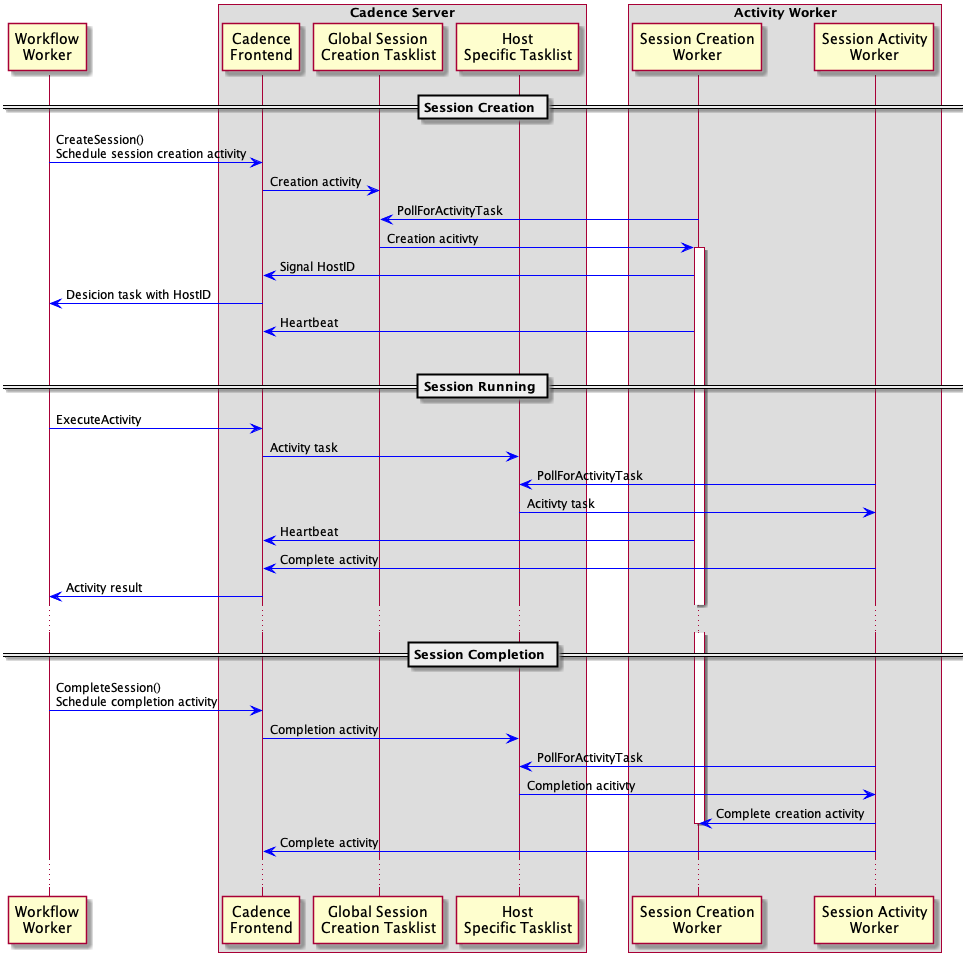
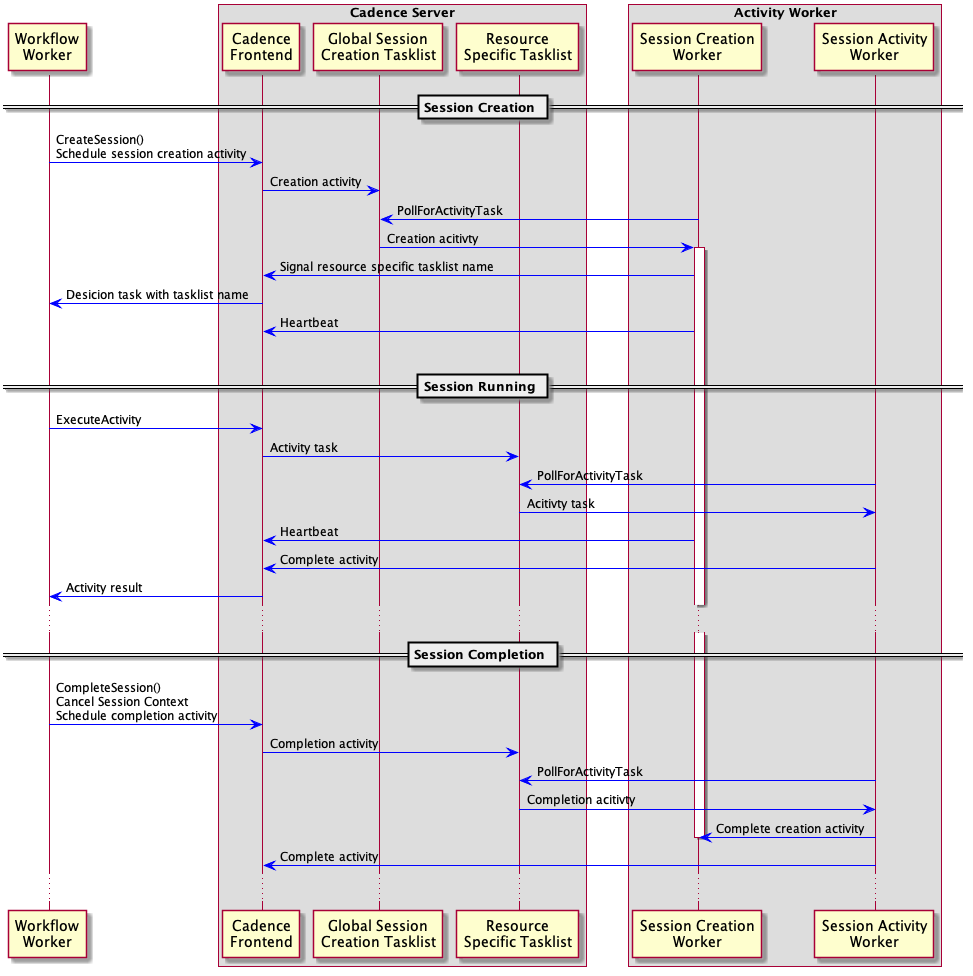
Update Session Proposal (#2173)

diff --git a/docs/design/1533-host-specific-tasklist.md b/docs/design/1533-host-specific-tasklist.md
@@ -2,7 +2,7 @@
 
 Author: Yichao Yang (yycptt)
 
-Last updated: April 2019
+Last updated: July 2019
 
 Discussion at <https://github.com/uber-go/cadence-client/issues/697>
 
@@ -41,32 +41,40 @@ The following sections will first go through the APIs exposed to users, explain 
 There will be four new APIs available when writing a workflow:
 
 ```go
-sessionCtx, err := workflow.**CreateSession**(ctx)
+sessionCtx, err := workflow.**CreateSession**(ctx Context, so *SessionOptions)
 ```
 
-A user calls this API to create a session and use the returned sessionCtx to execute activities. All activities executed within the returned sessionCtx are considered to be part of the session and will be executed on the same worker. It’s possible that this call will fail due to various reasons, for example, no worker is available at this time.
+A user calls this API to create a session on the worker that polls the task list specified in the ActivityOptions (or in the StartWorkflowOptions if the task list name is not specified in the ActivityOptions). All activities executed within the returned sessionCtx (a new context which contains metadata information of the created session) are considered to be part of the session and will be executed on the same worker. The sessionCtx will be cancelled if the worker executing this session dies or CompleteSession() is called.
 
-The session will be created on one of the workers that polls from the tasklist specified in the context passed into the CreateSession API. As a result, users need to make sure they are using the correct task list.
+The SessionOptions struct contains two fields: `ExecutionTimeout`, which specifies the maximum amount of time the session can run and `CreationTimeout`, which specifies how long session creation can take before returning an error.
 
-When executing an activity within a session, a user may get two types of errors. The first one is returned from user activities. The session will not be marked as failed in this case, so the user can return whatever error they want and apply their business logic as necessary. If a user wants to end a session due to the error returned from the activity, use the CompleteSession() API below. The second type of error is a special error which says the session has failed due to worker failure and the session is marked as failed in the background. In this case, no activities can be executed using this context. The user can choose how to handle the failure. They can create a new session to retry or end the workflow with an error.
+CreateSession() will return an error if the context passed in already contains an open session. If all the workers are currently busy and unable to handle new sessions, the framework will keep retrying until the CreationTimeout you specified in the SessionOptions has passed before returning an error.
+
+When executing an activity within a session, a user might get three types of errors:
+1. Those returned from user activities. The session will not be marked as failed in this case, so the user can return whatever error they want and apply their business logic as necessary. If a user wants to end a session due to the error returned from the activity, use the CompleteSession() API below. 
+2. A special `ErrSessionFailed` error: this error means the session has failed due to worker failure and the session is marked as failed in the background. In this case, no activities can be executed using this context. The user can choose how to handle the failure. They can create a new session to retry or end the workflow with an error.
+3. Cancelled error: If a session activity has been scheduled before worker failure is detected, it will be cancelled afterwards and a cancelled error will be returned.
 
 ```go
-err := workflow.**CompleteSession**(sessionCtx)
+workflow.**CompleteSession**(sessionCtx Context)
 ```
 
-This API is used to complete a session. It will return an error if the context passed in does not contain a session with state "Open" or it fails to complete the session.
+This API is used to complete a session. It releases the resources reserved on the worker and cancels the session context (therefore all the activities using that session context). It does nothing when the session is already closed or failed.
 
 ```go
-sessionInfo, err := workflow.**GetSessionInfo**(sessionCtx)
+sessionInfoPtr := workflow.**GetSessionInfo**(sessionCtx Context)
 ```
 
-This API returns session information stored in the context. It returns an error if the context passed in doesn’t contain any session information or the session has already failed. For now, the only information returned is sessionID, which is a unique identifier for a session.
+This API returns session metadata stored in the context. If the context passed in doesn’t contain any session metadata, this API will return a nil pointer. For now, the only exported fields in sessionInfo are: sessionID, which is a unique identifier for a session, and hostname. 
 
 ```go
-sessionCtx, err := workflow.**RecreateSession**(ctx, sessionInfo)
+sessionCtx, err := workflow.**RecreateSession**(ctx Context, recreateToken []byte, so *SessionOptions)
 ```
 
-This API takes session information and recreates a session. All the activities in the recreated session will be executed by the specified worker. The primary use case will be continueAsNew. Before returning the continueAsNew error, the user should get the sessionInfo from sessionCtx and complete the session. Then in the next run, the session can be recreated and activities in this new run can continue to be executed on the same activity worker as previous runs.
+For long running sessions, user might want to split it into multiple runs while still wanting all the activities executed by the same worker. This API is designed for such a use case.
+
+Its usage is the same as CreateSession() except that it also takes in a recreateToken. The token encodes the resource specific tasklist name on which the new session should be created. A user can get the token by calling the GetRecreateToken() method of the SessionInfo object.
+
 
 #### Example
 
@@ -80,6 +88,8 @@ if err != nil {
     // Creation failed. Wrong ctx or too many outstanding sessions.
 
 }
+
+defer CompleteSession(sessionCtx)
 
 err = ExecuteActivity(sessionCtx, DownloadFileActivity, filename).Get(sessionCtx, nil)
 
@@ -108,14 +118,6 @@ if err != nil {
     // Session(worker) has failed or activity itself returns an error.
 
 }
-
-err = CompleteSession(sessionCtx)
-
-if err != nil {
-
-    // Wrong ctx is used or failed to release session resource.
-
-}
 ```
 
 #### New Worker Options
@@ -130,7 +132,7 @@ There will be three new options available when creating a worker:
 
   An identifier of the resource that will be consumed if a session is executed on the worker. For example, if a worker has a GPU, and a session for training a machine learning model is executed on the worker, then some memory on the GPU will be consumed. In this case, the resourceID can be the identifier of the GPU.
 
-**NOTE:** The user needs to ensure there’s only one worker using a certain resourceID.
+**NOTE:** Users must ensure that only one worker uses a certain resourceID on a host.
 
 * **MaxCurrentSessionExecutionSize**
 
@@ -140,61 +142,67 @@ There will be three new options available when creating a worker:
 
 ### Session Model
 
-All sessions are **resource specific**. This means that a session is always tied to some kind of resource (not the worker). The resource can be CPU, GPU, memory, file descriptors, etc., and we want all the activities within a session to be executed by the same worker that owns the resource. If a worker dies and restarts, as long as it owns the same resource, we can try to reestablish the session (this is future work). Also, the user needs to ensure that the resource is owned by only one worker.
+All sessions are **resource specific**. This means that a session is always tied to some kind of resource (not the worker). The resource can be CPU, GPU, memory, file descriptors, etc., and we want all the activities within a session to be executed by the same worker that owns the resource. If a worker dies and restarts, as long as it owns the same resource, we can try to reestablish the session (this is future work). Also, the user needs to ensure that the resource is owned by only one worker on a single host.
 
 Note that when creating a session, a user doesn’t need to specify the resource that is consumed by the session. This is because right now one worker owns only one resource, so there’s only one resource type on the worker. As a result, as long as the user specifies the correct tasklist in the context passed into the createSession API, the correct type of resource will be consumed (since there’s only one). Later, when a worker can support multiple types of resources, users will need to specify the resource type when creating a session.
 
 ### Workflow Context
 
-When a user calls the CreateSession() or CreateSessionWithHostID() API, a structure that contains information about the created session will be stored in the returned context. The structure contains three pieces of information:
+When a user calls the CreateSession() or RecreateSession() API, a structure that contains information about the created session will be stored in the returned context. The structure contains seven pieces of information:
 
 1. **SessionID**: a unique ID for the created session. (Exported)
 
-2. **tasklist**: the resource specific tasklist used by this session. (Not Exported)
+2. **Hostname**: the hostname of the worker that is responsible for executing the session. (Exported)
 
-3. **state:** state of the session (Not Exported).  It can take one of the three values below:
+3. **ResourceID**: the resource consumed by the session. (Will Be Exported)
+ 
+4. **tasklist**: the resource specific tasklist used by this session. (Not Exported)
+
+5. **sessionState**: the state of the session (Not Exported).  It can take one of the three values below:
 
    1. **Open**: when the session is created and running
    2. **Failed**: when the worker is down and the session can’t continue
    3. **Closed**: when the user closes the session through the API call and the session is successfully closed
 
+6. **sessionCancelFunc**: the function used to cancel the sessionCtx. It will cancel both the creation activity (see below) and all user activities. (Not Exported)
+
+7. **completionCtx**: the context for executing the completion activity. It’s different from the sessionCtx as we want to cancel the session context when CompleteSession() is called, but the completion activity (see below) still needs to be executed. (Not Exported)
+
 When a user calls the CompleteSession() API, the state of the session will be changed to "Closed" in place, which is why this API doesn’t return a new context variable.
 
-A user has no way to set the state of a session to failed. The state of a session is "failed" only when the worker executing the session is down and the change from “open” to “failed” is done in the background. Also notice that it’s possible that the worker is down, but the session state is still “Open” (since it takes some time to detect the worker failure). In this case, when a user executes an activity, the activity will still be scheduled on the resource specific tasklist. However, since no worker will poll from this task list, that activity will timeout and the user will get an error.
-
-Note that if a user tries to call CreateSession() with a context that already has an open session, the call will return an error. The same thing happens if a call to CompleteSession() is made when there’s no open session. You can call it with a failed session, but it won’t do anything. This is allowed because the state transition to "failed" is done in the background, and user may not know the session has failed.
+There is no way to set the state of a session to “Failed”. The state of a session is “Failed” only when the worker executing the session is down and the change from “Open” to “Failed” is done in the background. Also notice that it’s possible that the worker is down, but the session state is still “Open” (since it takes some time to detect the worker failure). In this case, when a user executes an activity, the activity will still be scheduled on the resource specific tasklist. However, it will be cancelled after worker failure is detected and the user will get a cancelled error.
 
 ### Workflow Worker
 
-When scheduling an activity, the workflow worker needs to check the context to see if this activity belongs to a session. If so and the state of that session is "open", get the session tasklist from the context and use it to override the tasklist value specified in the activity option. If on the other hand, the state is “failed”, the ExecuteActivity call will immediately fail without scheduling the activity and return an error through Future.Get().
+When scheduling an activity, the workflow worker needs to check the context to see if this activity belongs to a session. If so and the state of that session is "Open", get the resource specific tasklist from the context and use it to override the tasklist value specified in the activity option. If on the other hand, the state is "Failed", the ExecuteActivity call will immediately fail without scheduling the activity and return an ErrSessionFailed error through Future.Get().
 
-What CreateSession() and CompleteSession() really do is **scheduling a special activity** and get some information from the worker which executes the activity.
+CreateSession() and CompleteSession() really do are **schedule special activities** and get some information from the worker which executes these activities.
 
-* For CreateSession(), a special **session creation activity** will be scheduled on a global tasklist which is only used for this type of activity. During the execution of the activity, a signal containing the tasklist (depending on the session type, the tasklist will be either host specific or process specific) name will be sent back to the workflow. Then the tasklist name can be stored in the context for later use. The activity also performs heart beating throughout the whole lifetime of the session, so if the activity worker is down, the workflow can be notified and set the session state to "Failed". The CreateSession() call is considered as success when it gets the tasklist.
+* For CreateSession(), a special **session creation activity** will be scheduled on a global tasklist which is only used for this type of activity. During the execution of that activity, a signal containing the resource specific tasklist name will be sent back to the workflow (with other information like hostname). Once the signal is received by the worker, the creation is considered successful and the tasklist name will be stored in the session context. The creation activity also performs periodic heartbeat throughout the whole lifetime of the session. As a result, if the activity worker is down, the workflow can be notified and set the session state to “Failed”. 
 
 * For RecreateSession(), the same thing happens. The only difference is that the session creation activity will be **scheduled on the resource specific task list instead of a global one**.
 
-* For CompleteSession(), another special **completion activity** will be scheduled on the process specific tasklist. The sole purpose of this activity is to stop the corresponding creation activity created by the CreateSession()/CreateSessionWithHostID() API call, so that the resource used by the session can be released. Note that, **the completion activity must be scheduled on the resource specific tasklist (not a global one)** since we need to make sure the completion activity and the creation activity it needs to stop are running by the same worker.
+* For CompleteSession(), a special **completion activity** will be scheduled on the resource specific tasklist. The purpose of this activity is to stop the corresponding creation activity created by the CreateSession()/CreateSessionWithHostID() API call, so that the resource used by the session can be released. Note that, **the completion activity must be scheduled on the resource specific tasklist (not a global one)** since we need to make sure the completion activity and the creation activity it needs to stop are running by the same worker.
 
 ### Activity Worker
 
-When EnableSessionWorker is set to true, two more activity workers will be started.
+When `EnableSessionWorker` is set to true, two more activity workers will be started.
 
-* Session Creation Worker: this worker polls from a global tasklist whose name is derived from the tasklist name specified in the workerOption. This worker executes only one kind of activity: the special session creation activity. This special activity serves several purposes:
+* This worker polls from a global tasklist whose name is derived from the tasklist name specified in the workerOption and executes only the special session creation activity. This special activity serves several purposes:
 
    1. **Send the resource specific tasklist name** back to the workflow through signal.
 
    2. Keep **heart beating** to Cadence server until the end of the session.
 
-      If the heart beating returns EntityNotExist Error, this means the workflow/session has gone and this special activity should stop to release its resources.
+      If the heart beating returns the `EntityNotExist` Error, this means the workflow/session has gone and this special activity should stop to release its resources.
 
-      If on the other hand, the worker is down, Cadence server will send a heartbeat timeout error to the workflow, so the workflow can be notified and update the session state. Later,  an ExecuteActivity() call to the failed session context will also fail.
+      If on the other hand, the worker is down, Cadence server will send a heartbeat timeout error to the workflow, so the workflow can be notified and update the session state. Later, an ExecuteActivity() call to the failed session context will also fail.
 
    3. Check the number of currently running sessions on the worker. If the maximum number of concurrent sessions has been reached, return an error to fail the creation.
 
    One detail we need to ensure is that when the maximum number of concurrent sessions has been reached, this worker should stop polling from the global task list.
 
-* Session Activity Worker: this worker only polls from the resource specific tasklist. There are three kinds of activities that can be run by this worker.
+* Session Activity Worker: this worker only polls from the resource specific tasklist. There are three kinds of activities that can be run by this worker:
 
    1. User activities in a session that belongs to this host.
 
@@ -222,19 +230,17 @@ This section illustrates the sequence diagrams for situations that may occur dur
 
 ![image alt text](1533-host-specific-tasklist-image_2.png)
 
-* When there are too many outstanding sessions and the user is trying to create a new one. The assumption here is that each activity worker is configured to have **MaxCurrentSessionExecutionSize = 1**. Host specific tasklist and worker is omitted in the diagram.
+* When there are too many outstanding sessions and the user is trying to create a new one. The assumption here is that each activity worker is configured to have **MaxCurrentSessionExecutionSize = 1**. Resource specific tasklist and session activity worker are omitted in the diagram.
 
 ![image alt text](1533-host-specific-tasklist-image_3.png)
 
-* An example of CreateSessionWithHostID().
+* An example of RecreateSession().
 
 ![image alt text](1533-host-specific-tasklist-image_4.png)
 
 ## Open Issues
 
 * Support automatic session reestablishing when worker goes down.
-
-* Add built-in query which will return a list of open sessions.
 
 * Allow session activities to access session information such as sessionID, resourceID, etc. This information is useful for logging and debugging.
 
